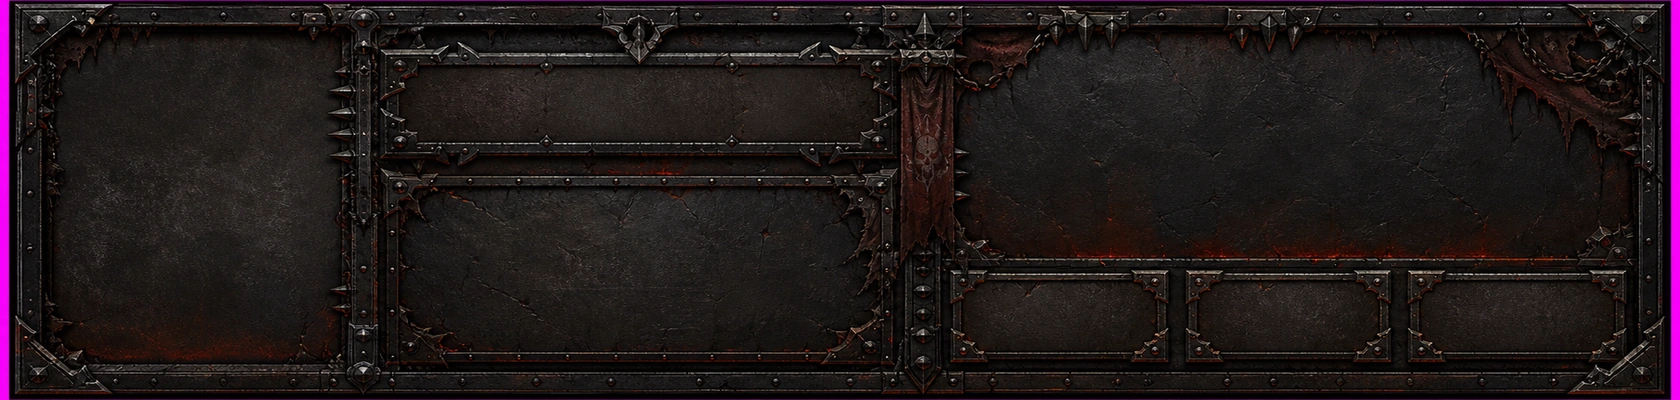
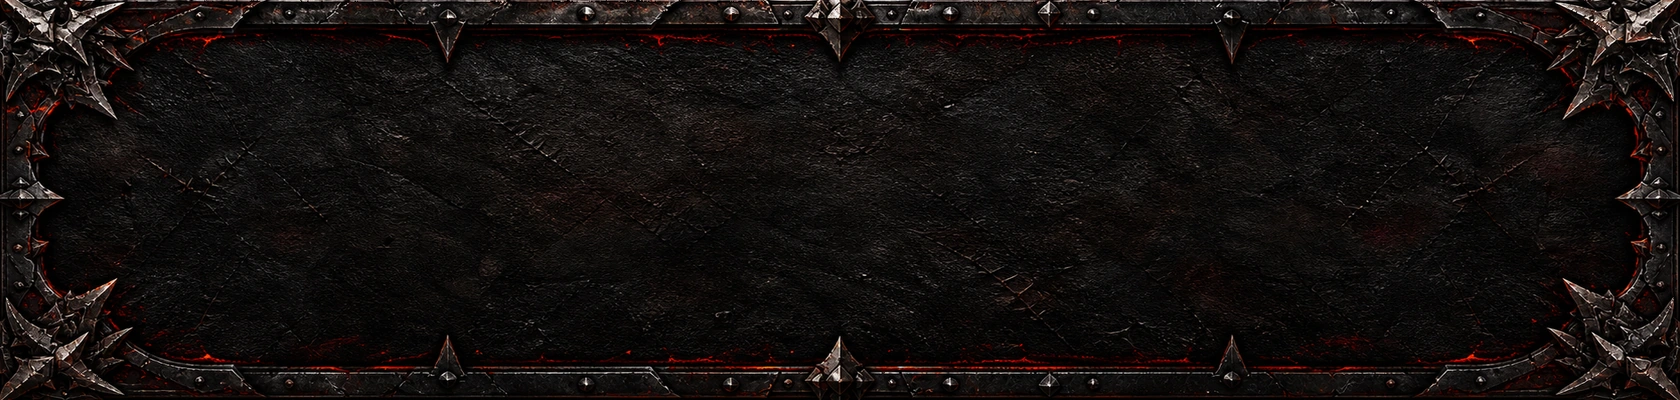
Rebuild and normalize card themes

diff --git a/css/showroom-card-themes.css b/css/showroom-card-themes.css
@@ -44,7 +44,7 @@
 .cmp-profile[data-card-theme] .cmp-trophies,.sr-profile-head[data-card-theme] .sr-trophy-preview{width:100%;height:72px;display:grid;grid-template-columns:repeat(7,30px);grid-template-rows:repeat(2,30px);grid-auto-flow:row;justify-content:right;justify-self:stretch;justify-items:center;align-items:center;align-content:start;gap:5px 4px;direction:rtl;overflow:hidden;padding:0!important;margin:0!important}
 .cmp-profile[data-card-theme] .cmp-trophies .v3-trophy-image,.sr-profile-head[data-card-theme] .sr-trophy-preview .v3-trophy-image{width:30px!important;height:30px!important;object-fit:contain;filter:drop-shadow(0 2px 3px #000) drop-shadow(0 0 5px var(--ct-accent))}
 .cmp-profile[data-card-theme] .cmp-markers,.sr-profile-head[data-card-theme] .sr-profile-markers{display:grid!important;grid-template-columns:repeat(3,minmax(0,1fr))!important;gap:8px!important;width:100%;min-width:100%;justify-self:stretch!important;align-items:stretch!important;margin:0!important;padding:0!important;border:0!important;background:none!important;box-shadow:none!important}
-.cmp-profile[data-card-theme] .mk,.sr-profile-head[data-card-theme] .mk{width:100%;min-width:0!important;min-height:72px!important;box-sizing:border-box;padding:10px!important;display:flex;flex-direction:column;align-items:center;justify-content:center;text-align:center;border:1px solid transparent!important;border-image-source:var(--ct-frame)!important;border-image-slice:90 120!important;border-image-width:11px!important;border-image-repeat:stretch!important;border-radius:0!important;background:var(--ct-panel)!important;box-shadow:none!important}
+.cmp-profile[data-card-theme] .mk,.sr-profile-head[data-card-theme] .mk{width:100%;min-width:0!important;min-height:72px!important;box-sizing:border-box;padding:10px!important;display:flex;flex-direction:column;align-items:center;justify-content:center;text-align:center;border:1px solid var(--ct-edge)!important;border-image:none!important;border-radius:10px!important;background:var(--ct-panel)!important;box-shadow:inset 0 1px 0 #ffffff10,0 2px 8px #0007,0 0 10px var(--ct-shadow)!important}
 body .cmp-profile[data-card-theme] .cmp-markers .mk,body .sr-profile-head[data-card-theme] .sr-profile-markers .mk{background:var(--ct-panel)!important}
 .cmp-profile[data-card-theme] .mk b,.sr-profile-head[data-card-theme] .mk b{color:#fff;text-shadow:0 1px 3px #000}
 .cmp-profile[data-card-theme] .mk span,.sr-profile-head[data-card-theme] .mk span{color:#dcecff}

diff --git a/sw.js b/sw.js
@@ -1,4 +1,4 @@
-const CACHE = 'weight-v116-coupled-card-themes';
+const CACHE = 'weight-v117-card-theme-repair';
 const ASSETS = [
   './index.html', './dashboard.html', './input.html', './import.html',
   './achievements.html', './compare.html', './dressroom.html', './shop.html', './guide.html', './visual-lab.html',

diff --git a/docs/showroom-card-themes-v12-production-spec.md b/docs/showroom-card-themes-v12-production-spec.md
@@ -1,34 +1,35 @@
-# 카드 테마 V12 커플링 제작 명세
+# 카드 테마 V12 제작 명세
 
-## 공통 구조
+## 확정 구조
 
-- 최종 헤더 에셋은 1680×400 WebP다.
-- 원화를 늘이거나 찌그러뜨리지 않고 처음부터 4.2:1 헤더 스트립으로 제작한다.
-- 좌측 22%는 별도 초상화·초상화 프레임이 올라오는 안전영역으로 비운다.
-- 중앙 좌측 상단은 칭호·이름, 하단은 오늘의 한마디 영역이다.
-- 우측 상단은 트로피 전시 영역으로 별도 박스를 그리지 않는다.
-- 우측 하단은 최고·최저·현재 수치를 위한 동일 크기 3칸을 둔다.
-- 체중 칸은 빨강·초록·파랑 고정색을 사용하지 않고 테마 재질과 색을 따른다.
-- 이미지의 모든 장식은 헤더 경계 안에 들어가야 하며 상단 돌출과 잘림을 허용하지 않는다.
-- 신규 항목은 개별 승인 전 구매·저장할 수 없는 테스트 전용이다.
+- 최종 헤더 자산은 모두 `1680×400`(4.2:1) 규격으로 제작한다.
+- 카드 테마 이미지는 헤더 전체의 배경과 외곽 프레임만 담당한다.
+- 이미지 내부에 칭호·이름, 오늘의 한마디, 트로피, 최고·최저·현재용 상자를 미리 그리지 않는다.
+- 실제 텍스트와 수치는 DOM/CSS로 배치하며, 테마의 문양과 장식이 글자를 침범하지 않도록 중앙 내부 명암을 낮춘다.
+- 초상화 영역은 프레임 이미지에 포함하지 않는다. 별도 초상화 프레임이 가장 높은 레이어에 표시된다.
+- 최고·최저·현재는 빨강·초록·파랑 고정색을 쓰지 않고 테마별 패널·테두리·글로우 변수를 사용한다.
+- 트로피는 별도 배경 칸 없이 우측 상단에 정렬하며, 테마별 글로우만 적용한다.
+- 외곽 장식은 헤더 경계 안에 완전히 들어가야 하며 상단 돌출, 하단 잘림, 마젠타 가이드 잔여를 허용하지 않는다.
+- 신규 항목은 기존 항목을 대체하지 않고 추가한다.
+- 승인 전 신규 항목은 `testOnly: true`, `purchasable: false`, `persistable: false`를 유지한다.
 
-## 신규 8종
+## V12 신규 8종
 
 | 등급 | 카드 테마 | 우선 커플링 그래프 스킨 |
 |---|---|---|
 | 희귀 | 붉은철 대족장 전당 | 붉은철 요새 |
-| 영웅 | 별벼림 관측의회 | 별벼림 창조소 |
+| 영웅 | 별벼림 관측의회 | 별벼림 천문대 |
 | 신화 | 심해 여왕의 산호궁정 | 심해 여왕 궁전 |
 | 신화 | 폭풍왕국 사자전당 | 폭풍왕국 |
 | 신화 | 강철 대족장의 전쟁지휘소 | 강철 대족장의 공성마당 |
-| 신화 | 파도현자의 제독실 | 파도현자의 해상요새 |
-| 신화 | 달의 여사제 은빛제단 | 달의 여사제 성역 |
-| 신화 | 용군단 화염의회 | 용군단 화염둥지 |
+| 신화 | 파도제독의 선실 | 파도제독 해상요새 |
+| 신화 | 달의 여사제 제단 | 달의 여사제 성역 |
+| 신화 | 용군단 화염의회 | 용군단 화염성채 |
 
-## 가격과 승인
+## 예정 가격
 
-- 희귀 예정가: 880포인트
-- 영웅 예정가: 1,430포인트
-- 신화 예정가: 2,200포인트
+- 희귀: 880 포인트
+- 영웅: 1,430 포인트
+- 신화: 2,200 포인트
 
-승인 시에만 `testOnly:false`, `purchasable:true`, `persistable:true`로 전환한다. 신규 카드 테마는 기존 20종을 대체하거나 기존 보유권을 변경하지 않는다.
+승인 후에만 `testOnly: false`, `purchasable: true`, `persistable: true`로 전환한다.
